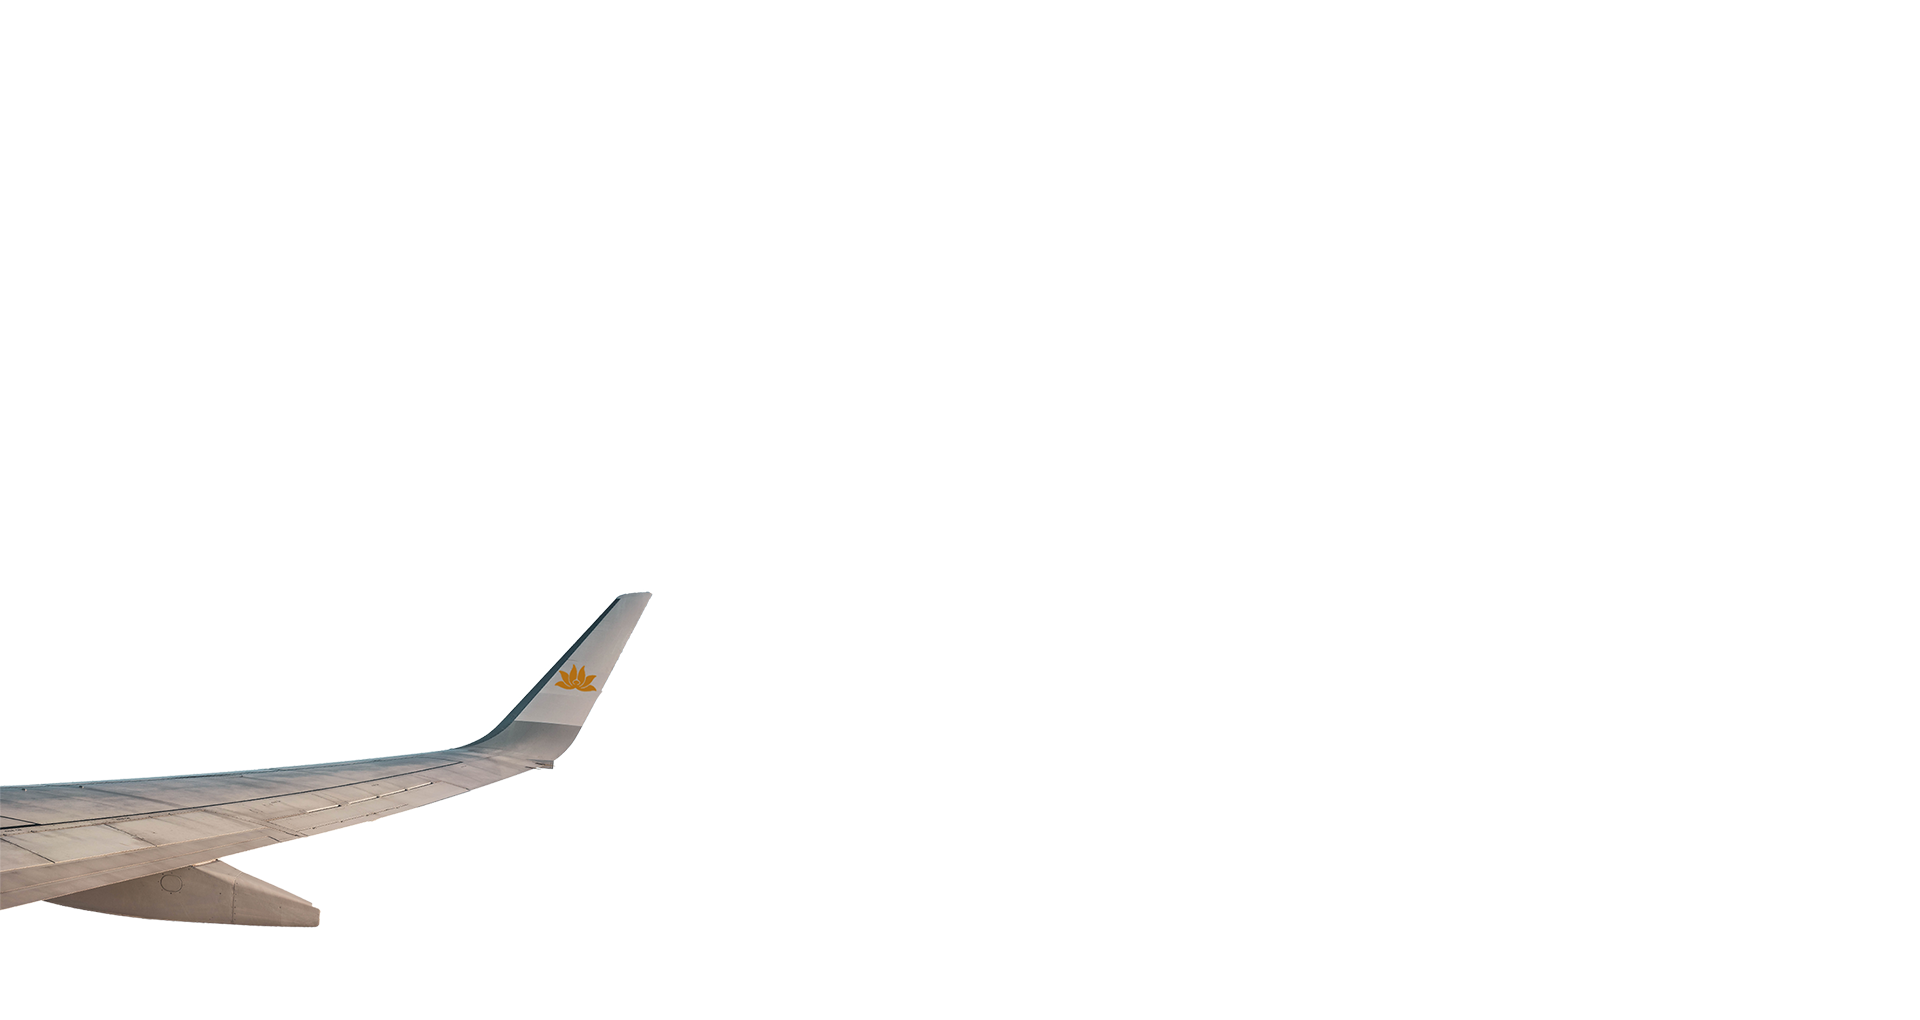
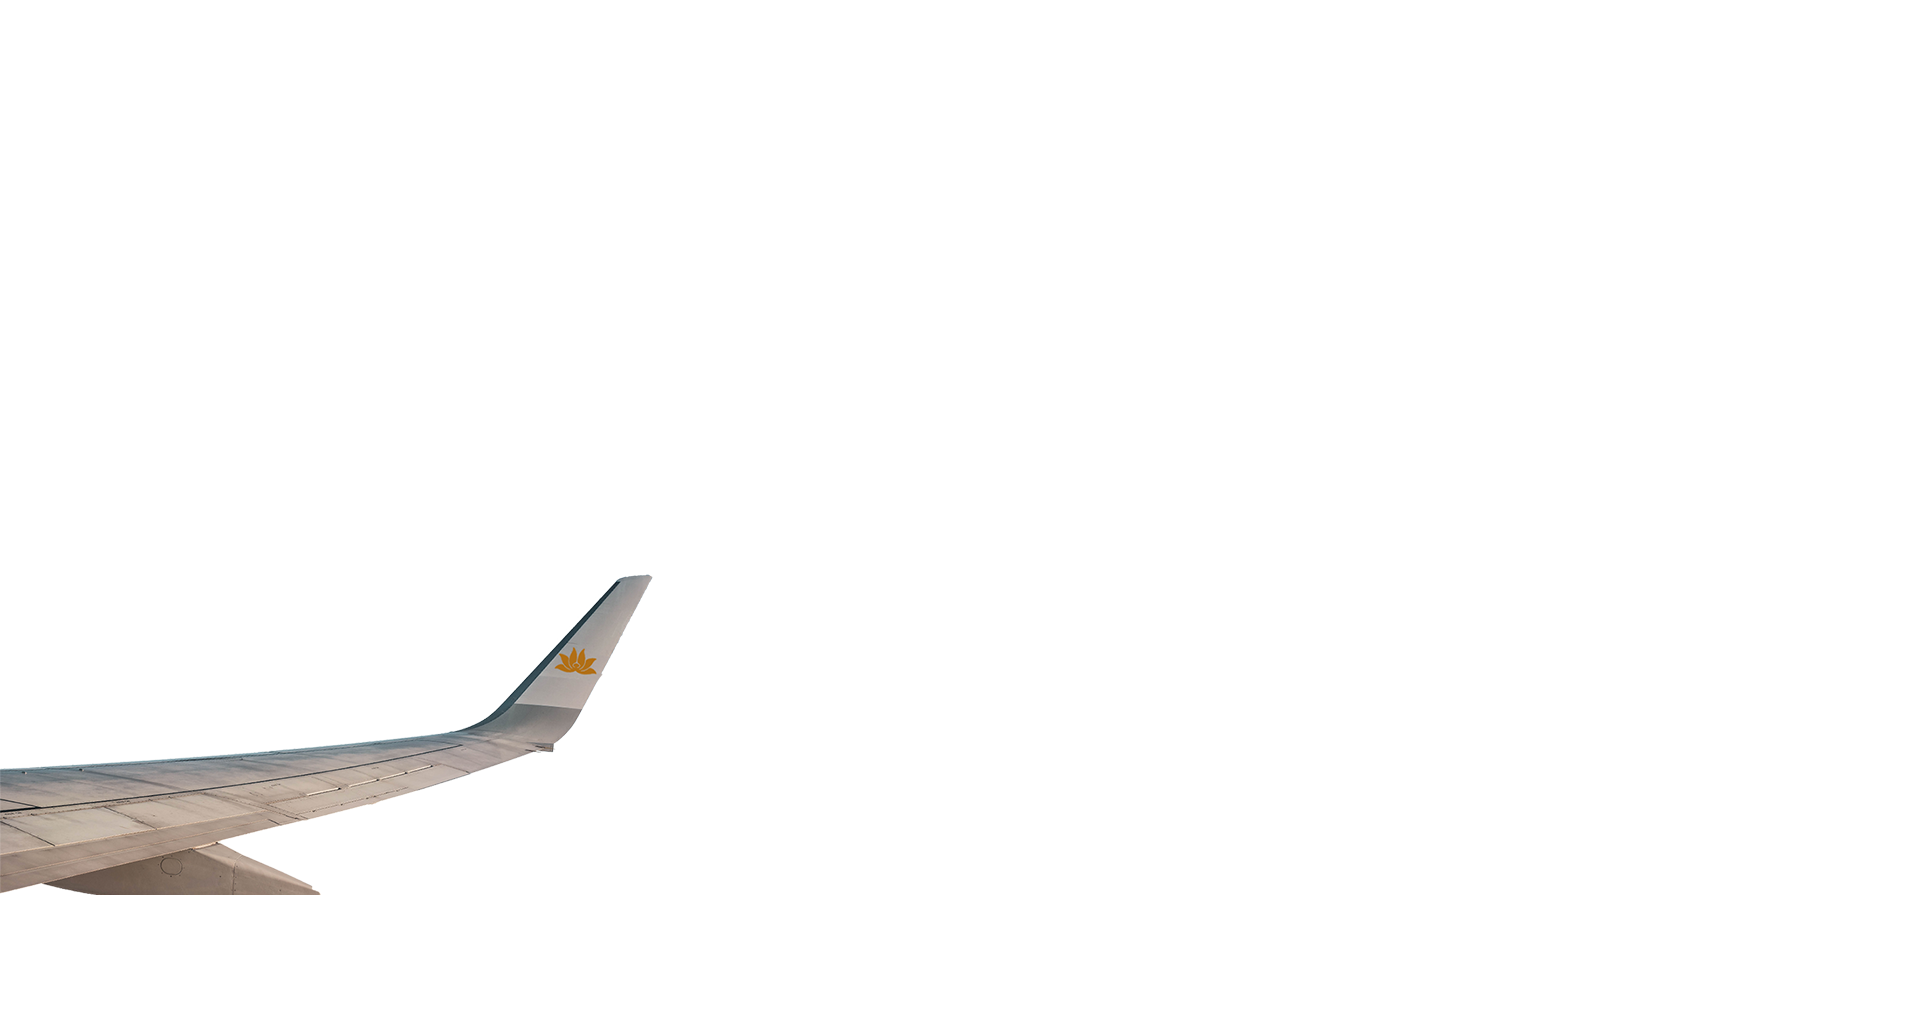
làm lại backgoud ngầu hơn

Changed region(s): [[0.0, 0.5471, 0.3438, 0.9118]]

diff --git a/index.html b/index.html
@@ -32,7 +32,7 @@
                     <a style="text-decoration: none" href="#yasuo" class="nav__link"><i class='bx bx-heart-circle'></i> Về chúng tôi</a>
             </div>
                 <div class="nav__toggle" id="nav-toggle">
-                    <i class='bx bxl-microsoft' ></i>
+                    <i class='bx bxl-microsoft ' ></i>
                 </div>
                 
 
@@ -134,8 +134,8 @@
                                 </div>
                                 <!--Third Row-->
                                 <div class="row" >
-                                    <div class="col-sm-6" style="color:#c1c9da"> <input  type="date" required placeholder="mm/dd/yyyy" class="form-control datepicker"  style="font-family:Arial, FontAwesome; color:#777a80"> </div>
-                                    <div class="col-sm-6" style="color:#c1c9da"> <input type="date" required placeholder="mm/dd/yyyy" class="form-control datepicker"  style="font-family:Arial, FontAwesome; color:#777a80"> </div>
+                                    <div class="col-sm-6" style="color:#c1c9da"> <input  type="date"  placeholder="mm/dd/yyyy" class="form-control datepicker"  style="font-family:Arial, FontAwesome; color:#777a80"> </div>
+                                    <div class="col-sm-6" style="color:#c1c9da"> <input type="date"  placeholder="mm/dd/yyyy" class="form-control datepicker"  style="font-family:Arial, FontAwesome; color:#777a80"> </div>
                                 </div>
                                 <!--Fourth Row-->
                                 <div class="row mt-4">

diff --git a/scss/styles.css b/scss/styles.css
@@ -119,13 +119,13 @@ img {
   top: 0;
   left: 0;
   z-index: var(--z-fixed);
-  background-color: #43485b;
+  background-color: #000000;
   z-index: 2000;
 }
 
 /*===== NAV =====*/
 .nav {
-  height: var(--header-height);
+  height: var(--header-height) +50px;
   display: -webkit-box;
   display: -ms-flexbox;
   display: flex;
@@ -223,7 +223,7 @@ img {
 }
 
 .home__parallax-img1 {
-  background-image: url("anh1.png");
+  background-image: url("anh1.jpg");
   z-index: var(--z-normal);
 }
 
@@ -969,7 +969,7 @@ display: none;
  }
 .home__title{
   top:30%;
-  left:54%;
+  left:35%;
 
 }
 .header2{
@@ -1553,4 +1553,8 @@ margin-left: auto;
 
 .showdangnhap{
   display:none;
+}
+
+.xoay{
+  transform: rotate(90deg);
 }
